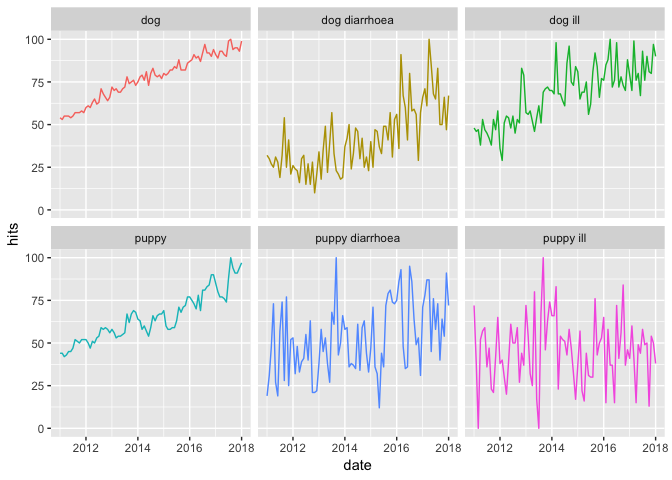
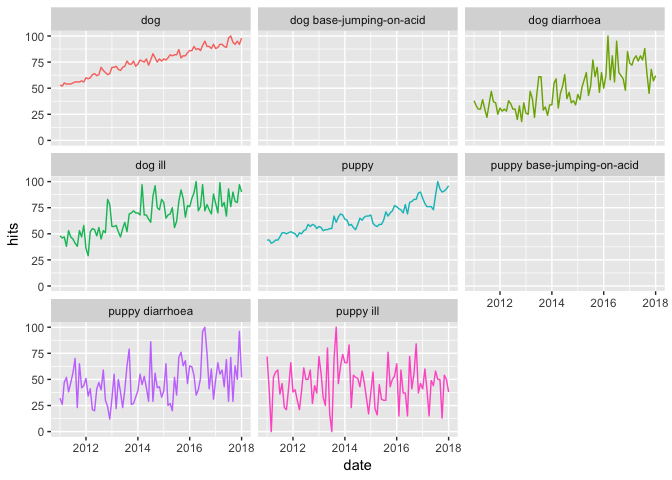
uses right join to non-dataframe bits to include the search terms that deliver NULLS

Changed region(s): [[0.0312, 0.0312, 1.0, 0.9375], [0.4375, 0.0312, 0.625, 0.0625], [0.0312, 0.0625, 0.0938, 0.0938]]

diff --git a/gtrend-list-column_20190128.md b/gtrend-list-column_20190128.md
@@ -128,16 +128,25 @@ write_rds(searches, rds_path)
 
 uses [this solution](https://stackoverflow.com/questions/47224831/using-tidyr-unnest-with-null-values) to deal with NULL dataframes
 
+uses `right_join(searches %>% select_if(~!is_list(.)))` to include null search info
+
 ``` r
 iot <- searches %>%
   filter(!map_lgl(iot, is.null)) %>% 
-  unnest(iot)
+  unnest(iot) %>% 
+  right_join(searches %>% select_if(~!is_list(.)))
+```
 
+    ## Joining, by = c("dogs", "signs", "search")
+
+``` r
 ggplot(iot) +
   aes(date, hits, colour = search) +
   geom_line() +
   facet_wrap(~search) +
   theme(legend.position = "none")
 ```
+
+    ## Warning: Removed 2 rows containing missing values (geom_path).
 
 ![](gtrend-list-column_20190128_files/figure-markdown_github/unnamed-chunk-6-1.png)
